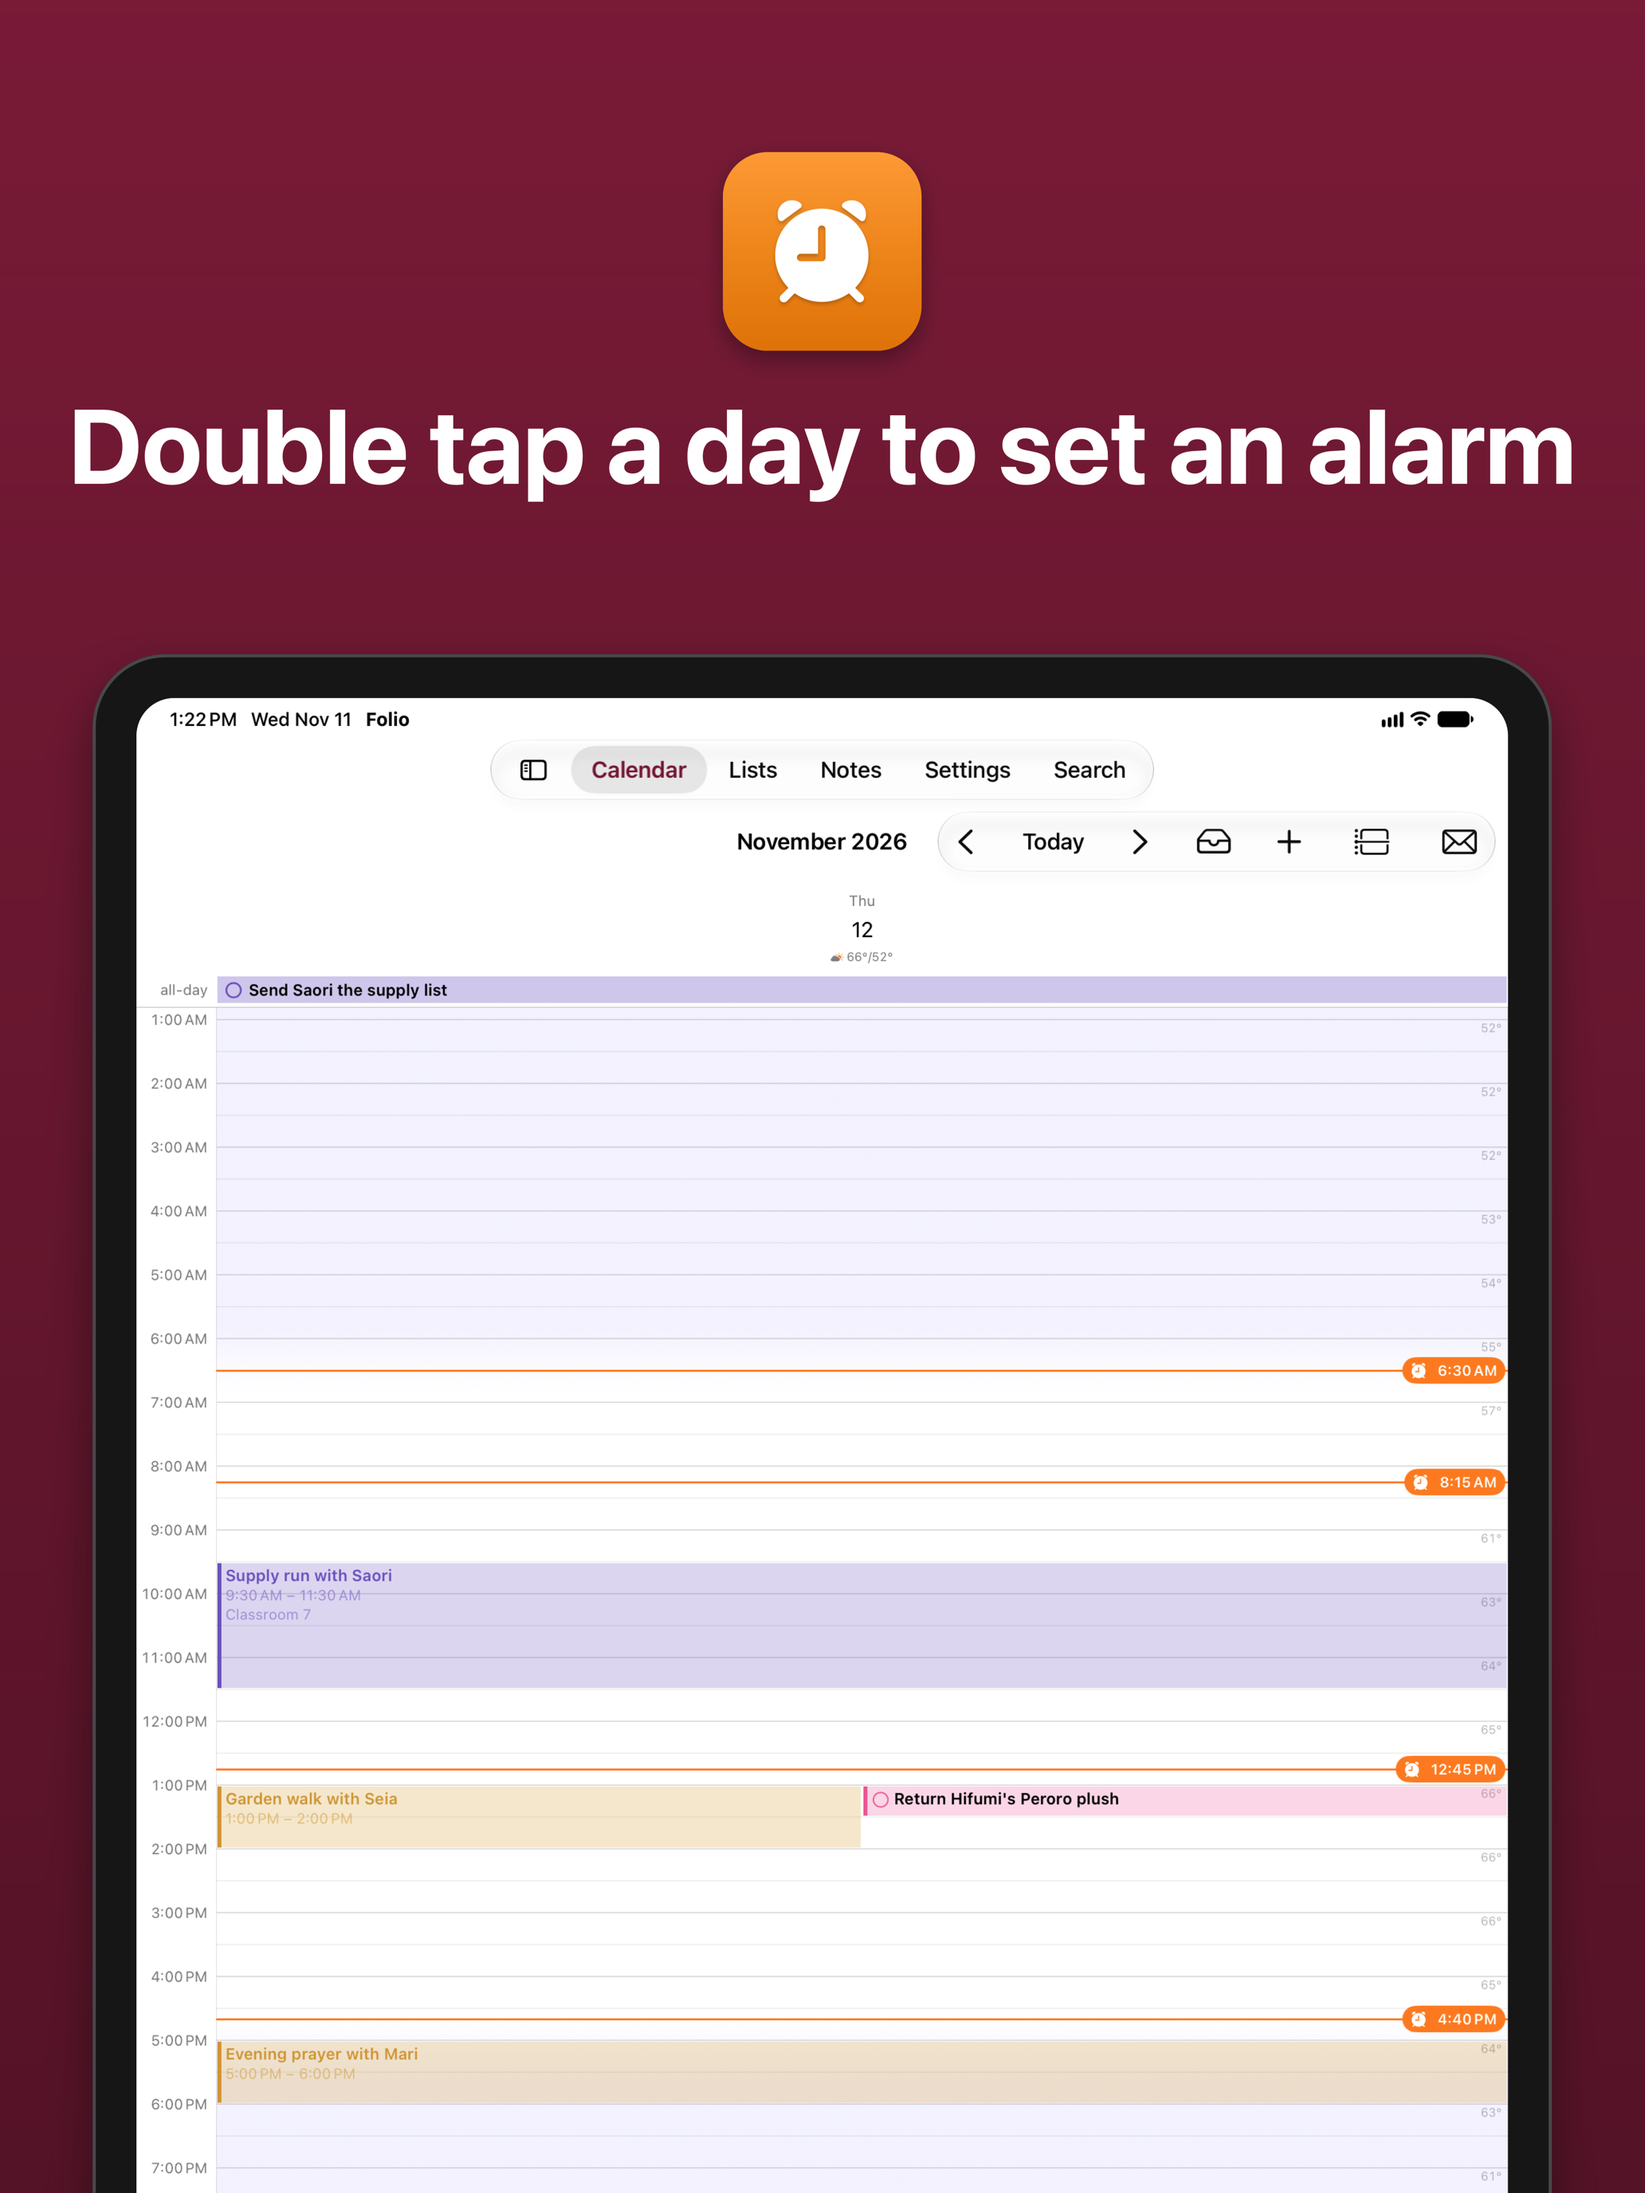
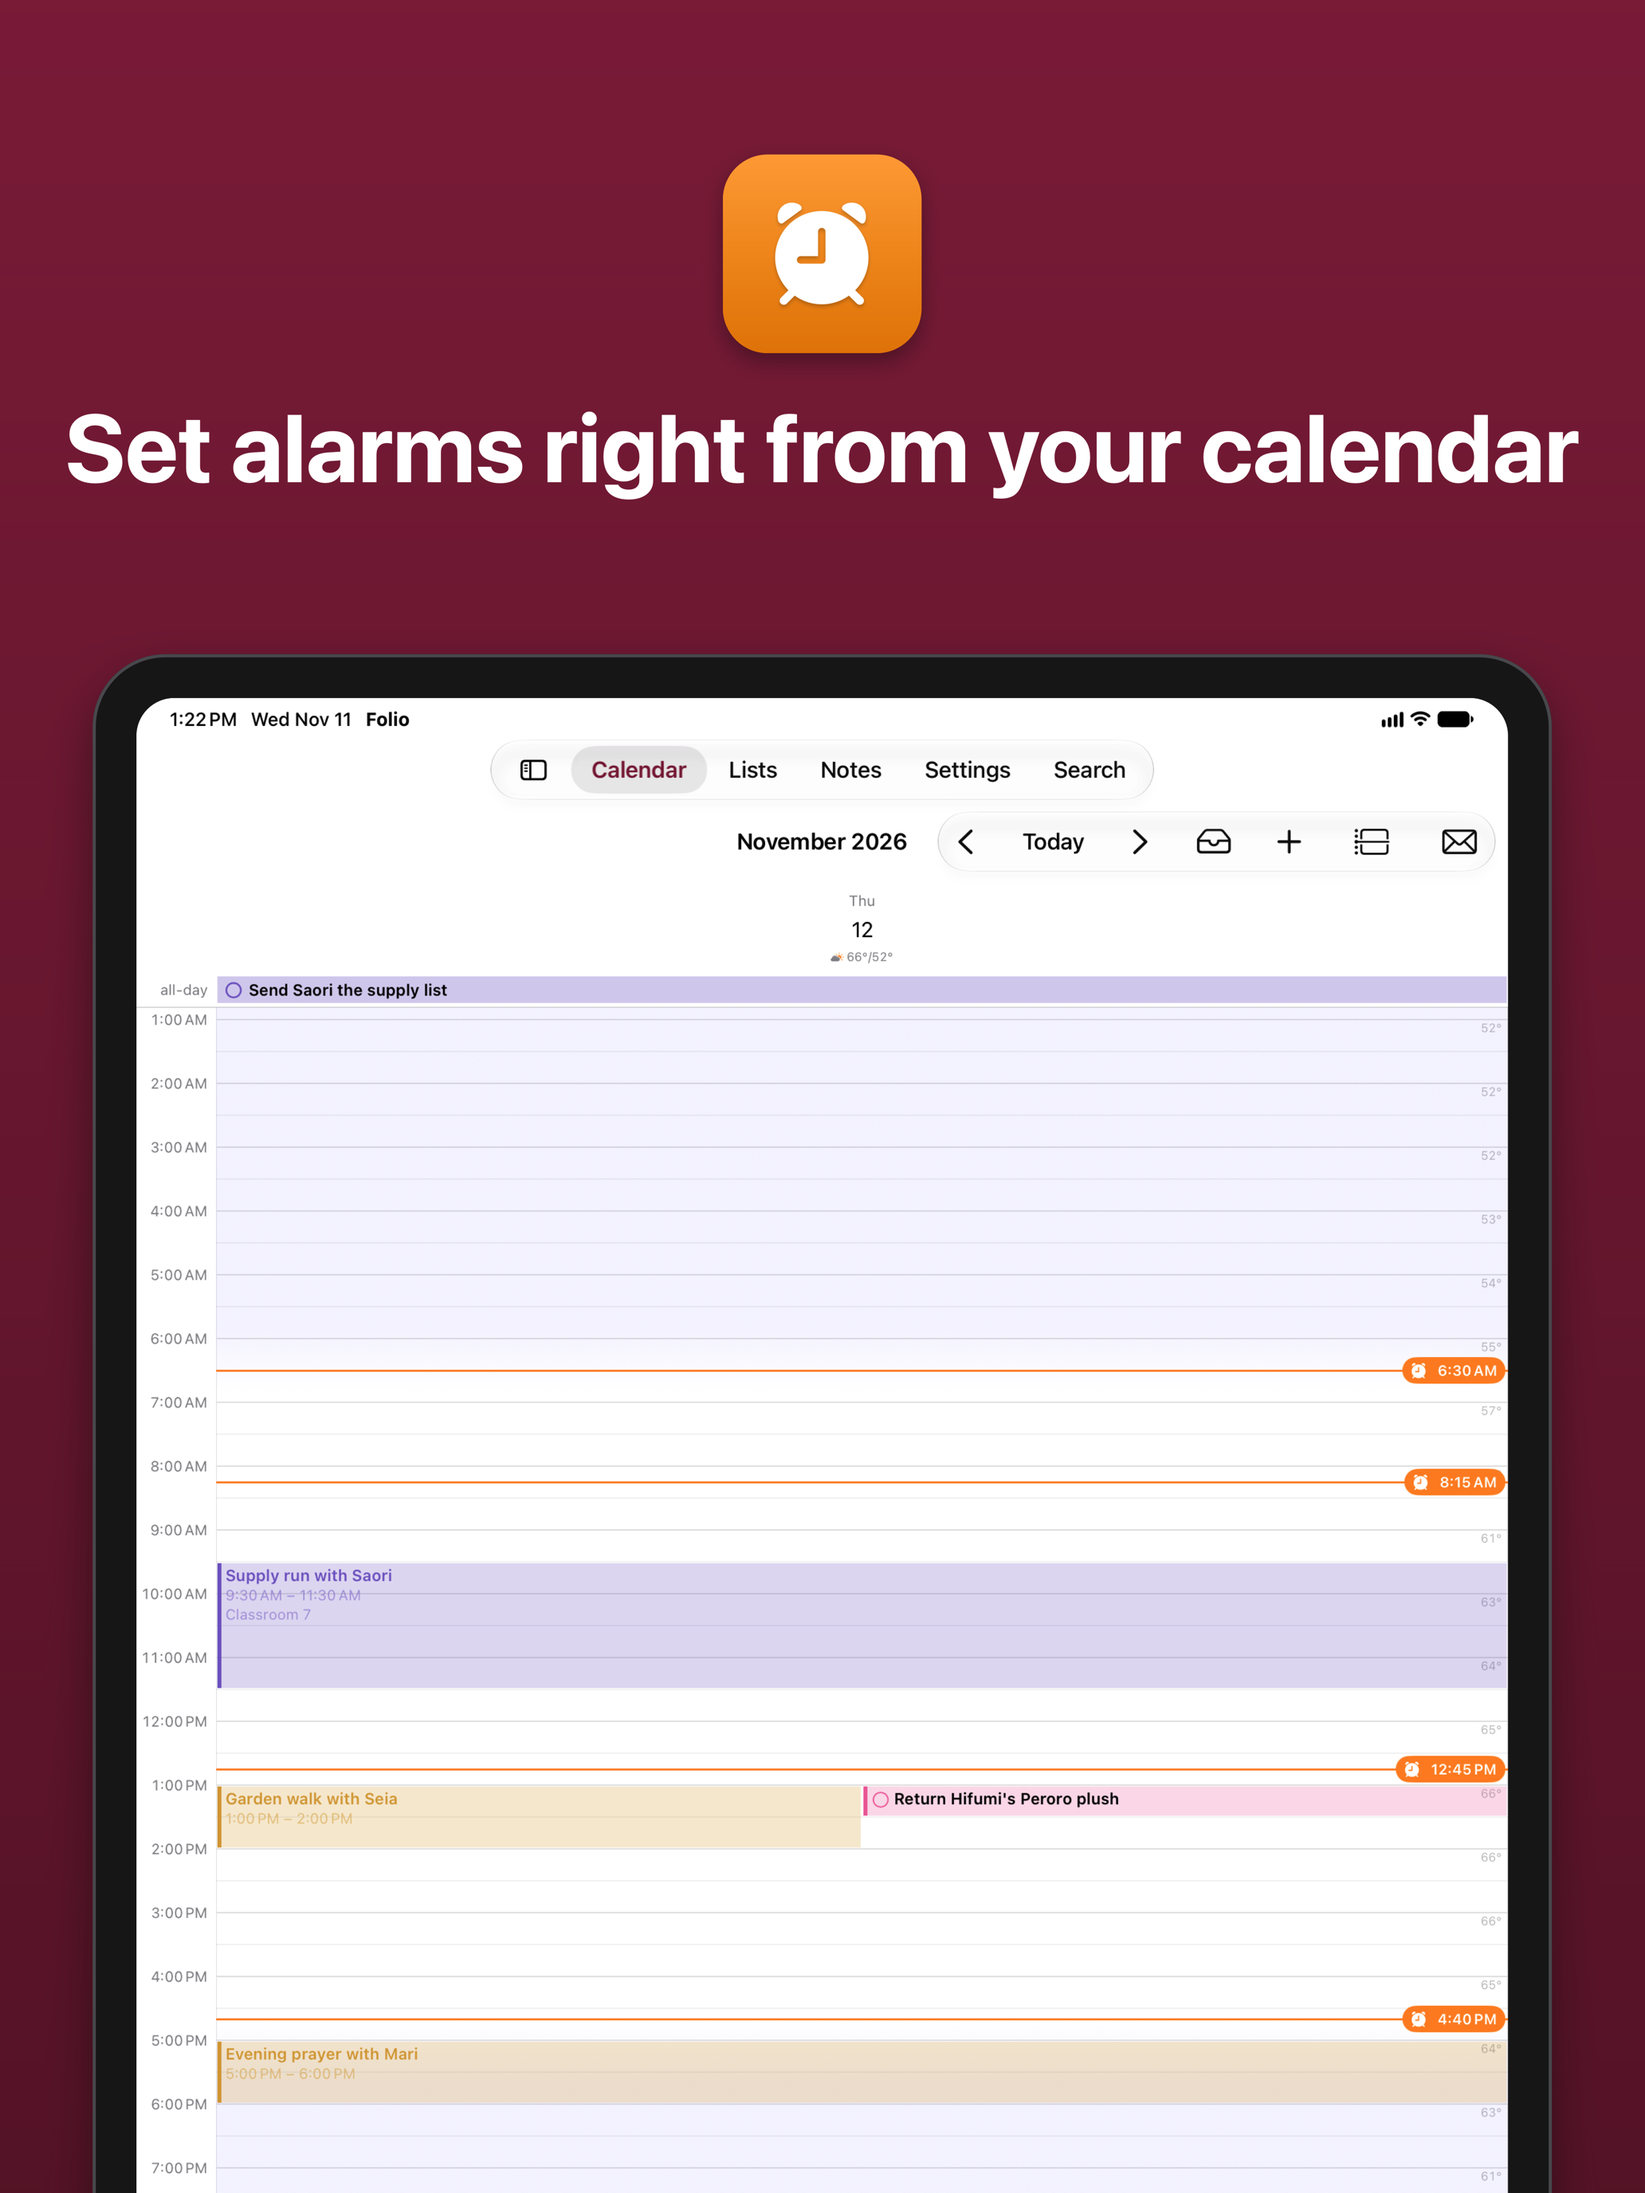
Use kanji in the week header and drop the double tap from the alarm header

Changed region(s): [[0.031, 0.1875, 0.9612, 0.25], [0.4651, 0.0938, 0.5271, 0.125]]

diff --git a/Assets/App Store/compose.swift b/Assets/App Store/compose.swift
@@ -65,7 +65,7 @@ let gradientBottom = accent.blended(withFraction: 0.3, of: .black)!
 
 let weekCopy = [
     "en": Copy(header: "See your whole week at once"),
-    "ja": Copy(header: "今週の予定、ぜんぶ見える"),
+    "ja": Copy(header: "今週の予定、全部見える"),
 ]
 let listsCopy = [
     "en": Copy(header: "Tick things off as you go"),
@@ -76,8 +76,8 @@ let notesCopy = [
     "ja": Copy(header: "メモはMarkdownでさっと"),
 ]
 let alarmsCopy = [
-    "en": Copy(header: "Double tap a day to set an alarm"),
-    "ja": Copy(header: "ダブルタップでアラームをセット"),
+    "en": Copy(header: "Set alarms right from your calendar"),
+    "ja": Copy(header: "カレンダーからアラームをセット"),
 ]
 let notificationsCopy = [
     "en": Copy(header: "Pick how each calendar alerts you"),
